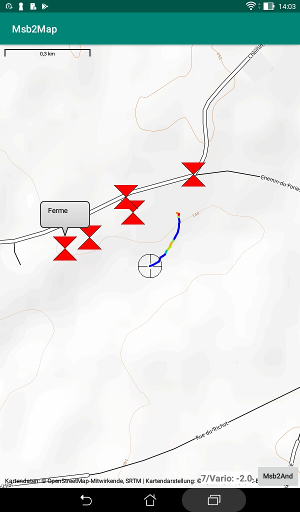
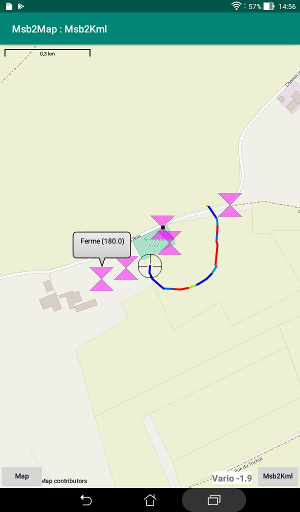
Map provider choice

diff --git a/app/src/main/java/org/js/msb2map/MainActivity.java b/app/src/main/java/org/js/msb2map/MainActivity.java
@@ -32,6 +32,8 @@ import org.osmdroid.config.Configuration;
 import org.osmdroid.events.MapListener;
 import org.osmdroid.events.ScrollEvent;
 import org.osmdroid.events.ZoomEvent;
+import org.osmdroid.tileprovider.constants.OpenStreetMapTileProviderConstants;
+import org.osmdroid.tileprovider.modules.MapTileDownloader;
 import org.osmdroid.tileprovider.tilesource.TileSourceFactory;
 import org.osmdroid.util.BoundingBox;
 import org.osmdroid.util.GeoPoint;
@@ -42,6 +44,7 @@ import org.osmdroid.views.overlay.Polyline;
 import org.osmdroid.views.overlay.ScaleBarOverlay;
 import org.osmdroid.views.overlay.gestures.RotationGestureOverlay;
 
+import java.io.File;
 import java.text.NumberFormat;
 import java.text.ParseException;
 import java.util.HashMap;
@@ -54,6 +57,7 @@ public class MainActivity extends AppCompatActivity {
     MapView map=null;
     Context ctx;
     String exPath= Environment.getExternalStorageDirectory().getAbsolutePath();
+    int sourceMap=0;
     Double latitude=48.8583;
     Double longitude=2.2944;
     Double zoom=15.0;
@@ -67,6 +71,7 @@ public class MainActivity extends AppCompatActivity {
     IntentFilter filter=new IntentFilter("org.js.LOC");
     Boolean listening=false;
     Button bMsb2And;
+    Button bMap;
     TextView vInfo;
     String caller=null;
     GeoPoint prevGeoPt=null;
@@ -106,6 +111,8 @@ public class MainActivity extends AppCompatActivity {
         }
         zoom=intent.getDoubleExtra("ZOOM",zoom);
         Tail=intent.getBooleanExtra("Tail",Tail);
+        int source=intent.getIntExtra("SOURCE",-1);
+        if (source>=0 && source<3) sourceMap=source;
         int wPix = Resources.getSystem().getDisplayMetrics().widthPixels;
         int hPix = Resources.getSystem().getDisplayMetrics().heightPixels;
         if (wPix>1024 || hPix>1024) width=6.0f;
@@ -116,6 +123,7 @@ public class MainActivity extends AppCompatActivity {
 
     void fetchPref(){
         SharedPreferences pref=ctx.getSharedPreferences(ctx.getString(R.string.PrefName),0);
+        sourceMap=pref.getInt("SOURCE",0);
         Float fZoom=pref.getFloat("ZOOM",zoom.floatValue());
         zoom=fZoom.doubleValue();
         Float fLat=pref.getFloat("LATITUDE",latitude.floatValue());
@@ -127,6 +135,7 @@ public class MainActivity extends AppCompatActivity {
     void putPref(){
         SharedPreferences pref=ctx.getSharedPreferences(ctx.getString(R.string.PrefName),0);
         SharedPreferences.Editor edit=pref.edit();
+        edit.putInt("SOURCE",sourceMap);
         edit.putFloat("ZOOM",zoom.floatValue());
         edit.putFloat("LATITUDE",latitude.floatValue());
         edit.putFloat("LONGITUDE",longitude.floatValue());
@@ -154,7 +163,6 @@ public class MainActivity extends AppCompatActivity {
     }
 
     public void launchMsb2And(){
-
         if (map!=null){
             zoom=map.getZoomLevelDouble();
             IGeoPoint cntr=map.getMapCenter();
@@ -171,10 +179,47 @@ public class MainActivity extends AppCompatActivity {
         } else finish();
     }
 
+    void selMap(){
+        String theList[]={"OpenTopoMap (opentopomap.org)",
+                          "MAPNIK (openstreetmap.org)",
+                          "WIKIMEDIA (maps.wikimedia.org)"
+
+                          };
+        AlertDialog.Builder build=new AlertDialog.Builder(this);
+        build.setTitle("Select a map tiles provider");
+        build.setItems(theList, new DialogInterface.OnClickListener() {
+            @Override
+            public void onClick(DialogInterface dialog, int which) {
+                sourceMap=which;
+                chgMap();
+            }
+        });
+        String[] def=theList[sourceMap].split(" ");
+        build.setNeutralButton(def[0], new DialogInterface.OnClickListener() {
+            @Override
+            public void onClick(DialogInterface dialog, int which) {
+
+            }
+        });
+        build.show();
+    }
+
+    void chgMap(){
+        if (map==null) return;
+        if (sourceMap==1) map.setTileSource(TileSourceFactory.MAPNIK);
+        else if (sourceMap==2) map.setTileSource(TileSourceFactory.WIKIMEDIA);
+        else {
+            map.setTileSource(TileSourceFactory.OpenTopo);
+            sourceMap=0;
+        }
+        map.invalidate();
+    }
+
     public void strtMap(){
         map=(MapView) findViewById(R.id.map);
         bMsb2And=(Button) findViewById(R.id.msb2and);
         vInfo=(TextView) findViewById(R.id.vInfo);
+        bMap=(Button) findViewById(R.id.mapSel);
         if (caller==null){
             bMsb2And.setText("Exit");
         } else {
@@ -186,7 +231,18 @@ public class MainActivity extends AppCompatActivity {
                 launchMsb2And();
             }
         });
-        map.setTileSource(TileSourceFactory.OpenTopo);
+        if (sourceMap==1) map.setTileSource(TileSourceFactory.MAPNIK);
+        else if (sourceMap==2) map.setTileSource(TileSourceFactory.WIKIMEDIA);
+        else {
+            map.setTileSource(TileSourceFactory.OpenTopo);
+            sourceMap=0;
+        }
+        bMap.setOnClickListener(new View.OnClickListener() {
+            @Override
+            public void onClick(View v) {
+                selMap();
+            }
+        });
         Configuration.getInstance().setUserAgentValue(BuildConfig.APPLICATION_ID);
         RotationGestureOverlay mRotationGestureOverlay = new RotationGestureOverlay(map);
         mRotationGestureOverlay.setEnabled(true);
@@ -202,7 +258,6 @@ public class MainActivity extends AppCompatActivity {
         map.getOverlays().add(scale);
         if (Orient!=null) map.setMapOrientation(Orient);
         map.invalidate();
-
         Intent nt=new Intent();
         nt.setAction("org.js.ACK");
         nt.putExtra("NAME",getResources().getString(R.string.app_name));
@@ -584,8 +639,6 @@ public class MainActivity extends AppCompatActivity {
             sendpkd(m);
         }
     }
-
-
 
     void sendpkd(Marker m){
         DataMark dm=assocAlt.get(m);

diff --git a/Documents/Controls.md b/Documents/Controls.md
@@ -1,3 +1,22 @@
+# Map provider
+
+The "**Map**" button on the lower left corner of the screen lets you
+select from which server the map tiles are retrieved.  
+
+![Map](Gallery/Map.jpg)
+
+The providers are:
+
++ [OpenTopoMap](https://www.opentopomap.org)
++ [Mapnik](https://www.openstreetmap.org)
++ [WikiMedia](https://maps.wikimedia.org/)
+
+Each of the servers has a free access but the accessibility
+and the level of detail could vary.
+
+The selection of provider is saved in the preferences to be used
+at the next invocation. The default is OpenTopoMap.
+
 # Map movement
 
 The map could be moved by the driving application but the user

diff --git a/Documents/Protocol.md b/Documents/Protocol.md
@@ -24,6 +24,11 @@ broadcast intents.
   otherwise the locations are displayed as a permanent track.
   True by default. The mode could be changed at the start of
   a new line.
++ Integer parameter "**SOURCE**": index of the provider to use
+  for retrieving the map tiles.  
+  0, 1 or 2 respectively for OpenTopoMap, MAPNIK or WIKIMEDIA.
+  The default is the previously used
+  or OpenTopoMap.
 
 
 ### Launcher acknowledgment

diff --git a/README.md b/README.md
@@ -33,8 +33,7 @@ other sources than Google Play.
 This application make use of the library
 [osmdroid](https://github.com/osmdroid/osmdroid).
 
-The map is provided by the [OpenStreetMap](https://www.openstreetmap.org/)
-Foundation.
+A choice is possible between 3 servers for the map tiles.
 
 # Permission and Android version
 This application should work on Android versions from
